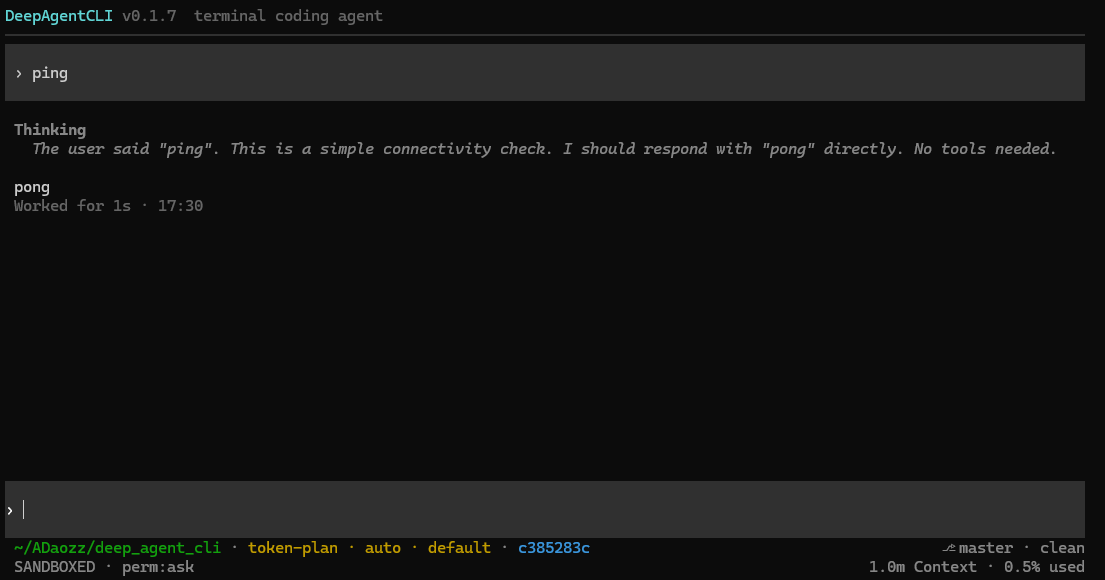
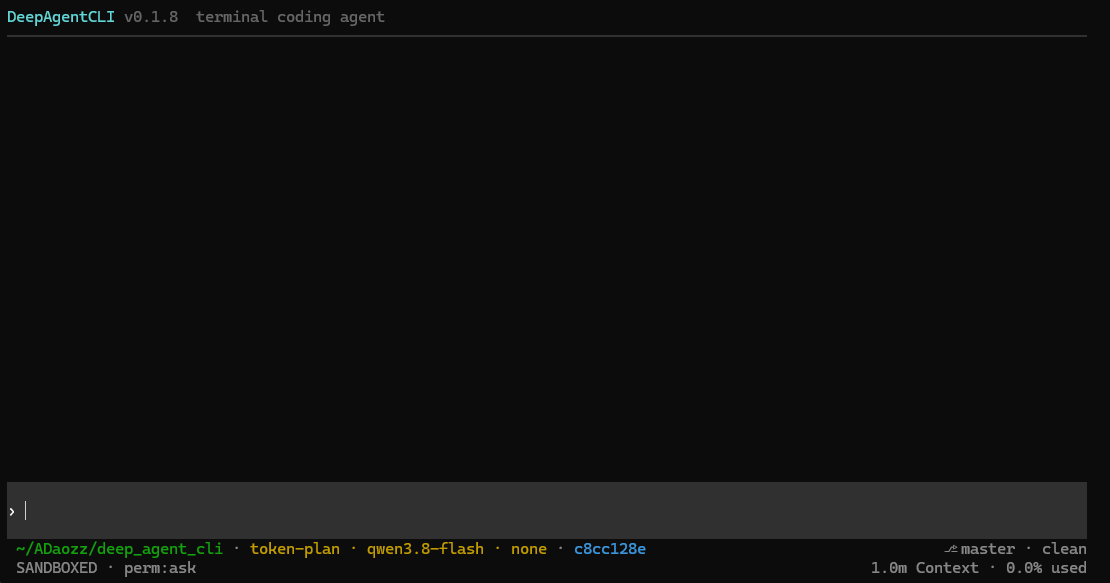
docs: 将服务文档版本对齐到 0.1.8 并补充 README 图示
同步 HTTP 服务说明中的当前版本，更新终端截图，并加入首页用的架构、权限与安全示意图。

diff --git a/docs/server.md b/docs/server.md
@@ -1,6 +1,6 @@
 # HTTP 服务与前端接入
 
-本文涵盖 HTTP 服务的安装配置、接口及业务行为，可作为聊天、工具审批和人工输入界面的开发契约。接口对应当前 `0.1.7` 已实现的能力，复用 CLI 的执行逻辑，CLI 继续使用原来的启动方式。接口实现位于 [`agent/server/app.py`](../agent/server/app.py)，任务行为位于 [`agent/server/runtime.py`](../agent/server/runtime.py)。
+本文涵盖 HTTP 服务的安装配置、接口及业务行为，可作为聊天、工具审批和人工输入界面的开发契约。接口对应当前 `0.1.8` 已实现的能力，复用 CLI 的执行逻辑，CLI 继续使用原来的启动方式。接口实现位于 [`agent/server/app.py`](../agent/server/app.py)，任务行为位于 [`agent/server/runtime.py`](../agent/server/runtime.py)。
 
 ## 1. 安装与启动
 
